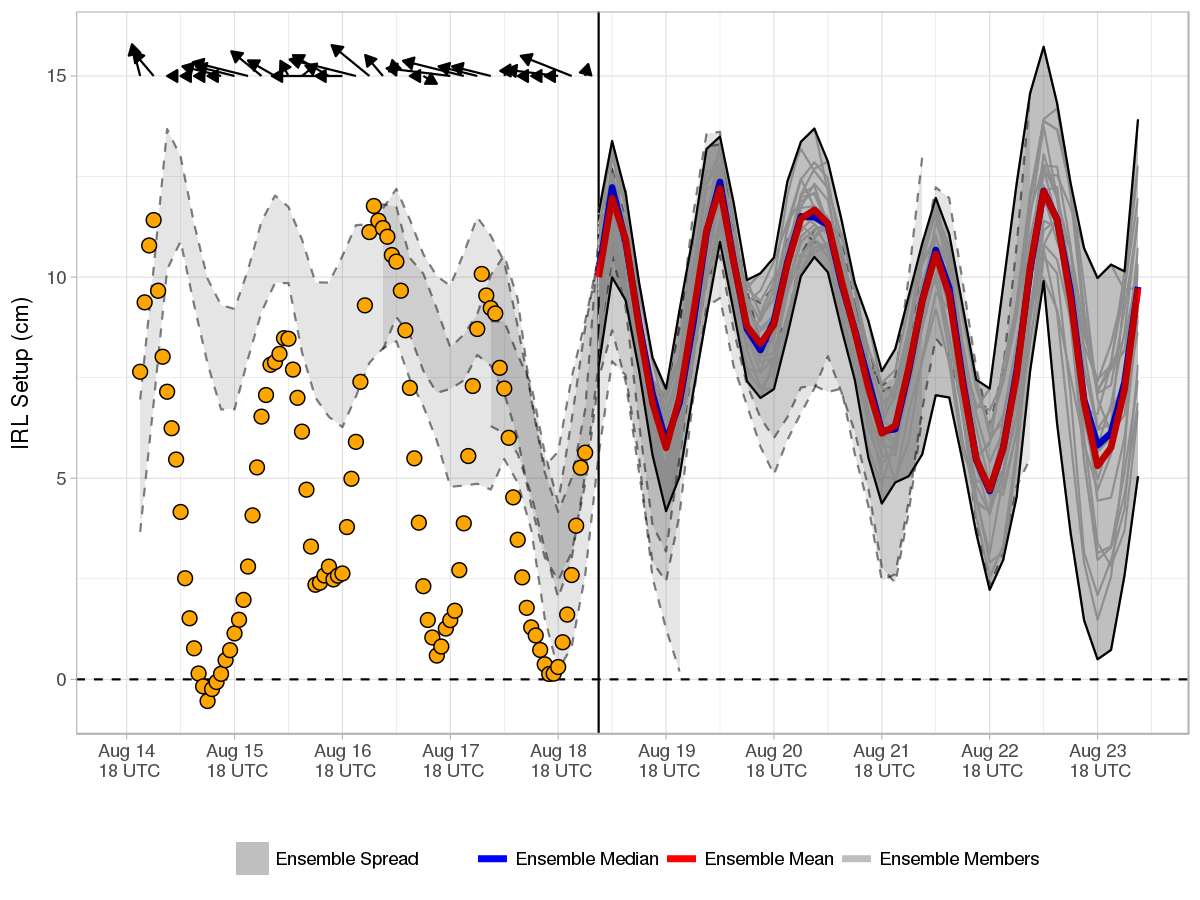
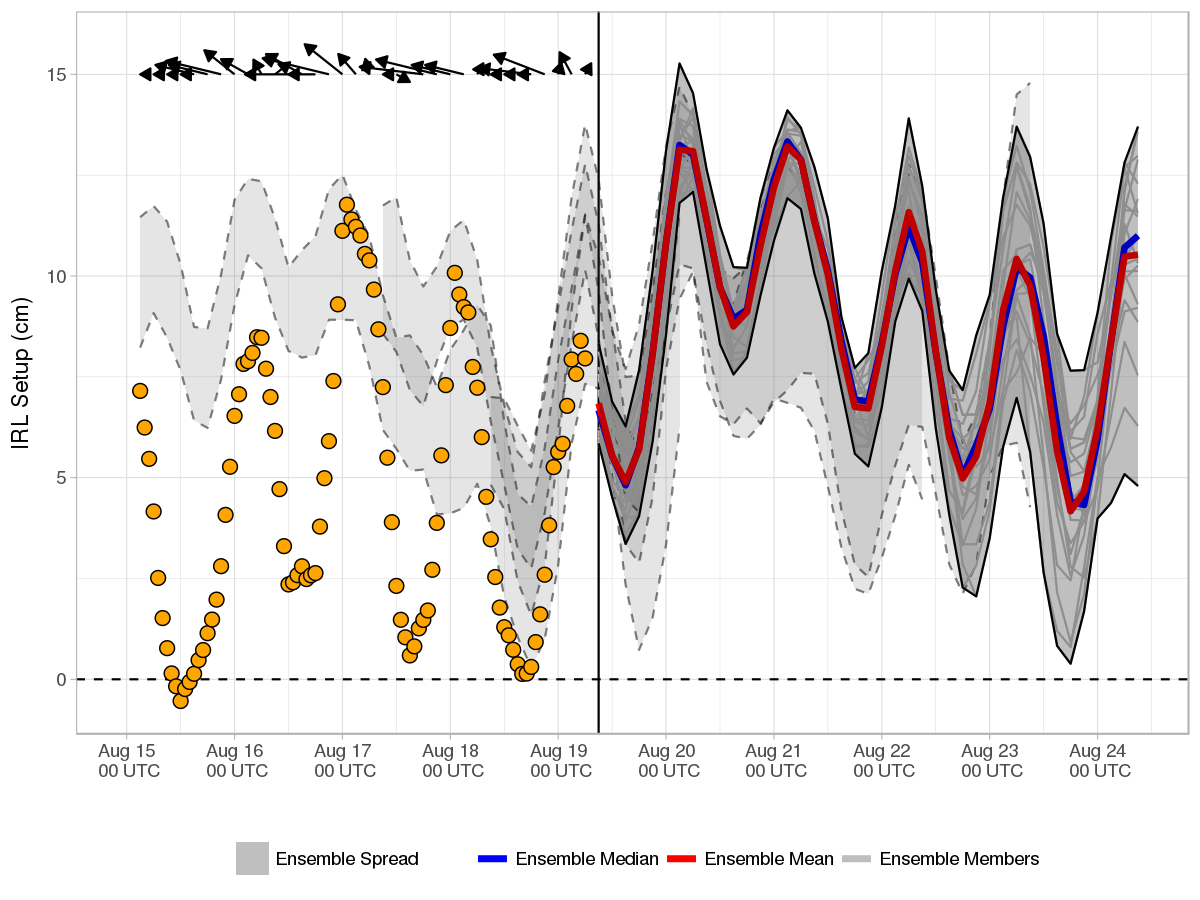
Forecast Update

diff --git a/docs/index.md b/docs/index.md
@@ -1,9 +1,9 @@
-Current Forecast 2018-08-18, Cycle 18 UTC
+Current Forecast 2018-08-19, Cycle 00 UTC
 -----------------------------------------
 
 [![](img/raw_setup.png)](https://fit-winds.github.io/IRLSetup/img/raw_setup.png)
 
-> Forecast valid 2018-08-18 20:23:26.
+> Forecast valid 2018-08-19 02:23:41.
 
 Explanation
 -----------
@@ -23,7 +23,7 @@ Ensemble Forecast System
 cycles. Calculation of the IRL setup is performed shortly after a new
 GEFS cycle is made available on the [data access
 link](http://www.ftp.ncep.noaa.gov/data/nccf/com/gens/prod/). The
-current cycle 2018-08-18 18 UTC 0.5° GEFS mean and median forecasts of
+current cycle 2018-08-19 00 UTC 0.5° GEFS mean and median forecasts of
 setup are represented by the red and blue curves, respectively. Ensemble
 spread from the current and three previous GEFS runs are shaded grey and
 bounded by solid and dashed curves, respectively.
